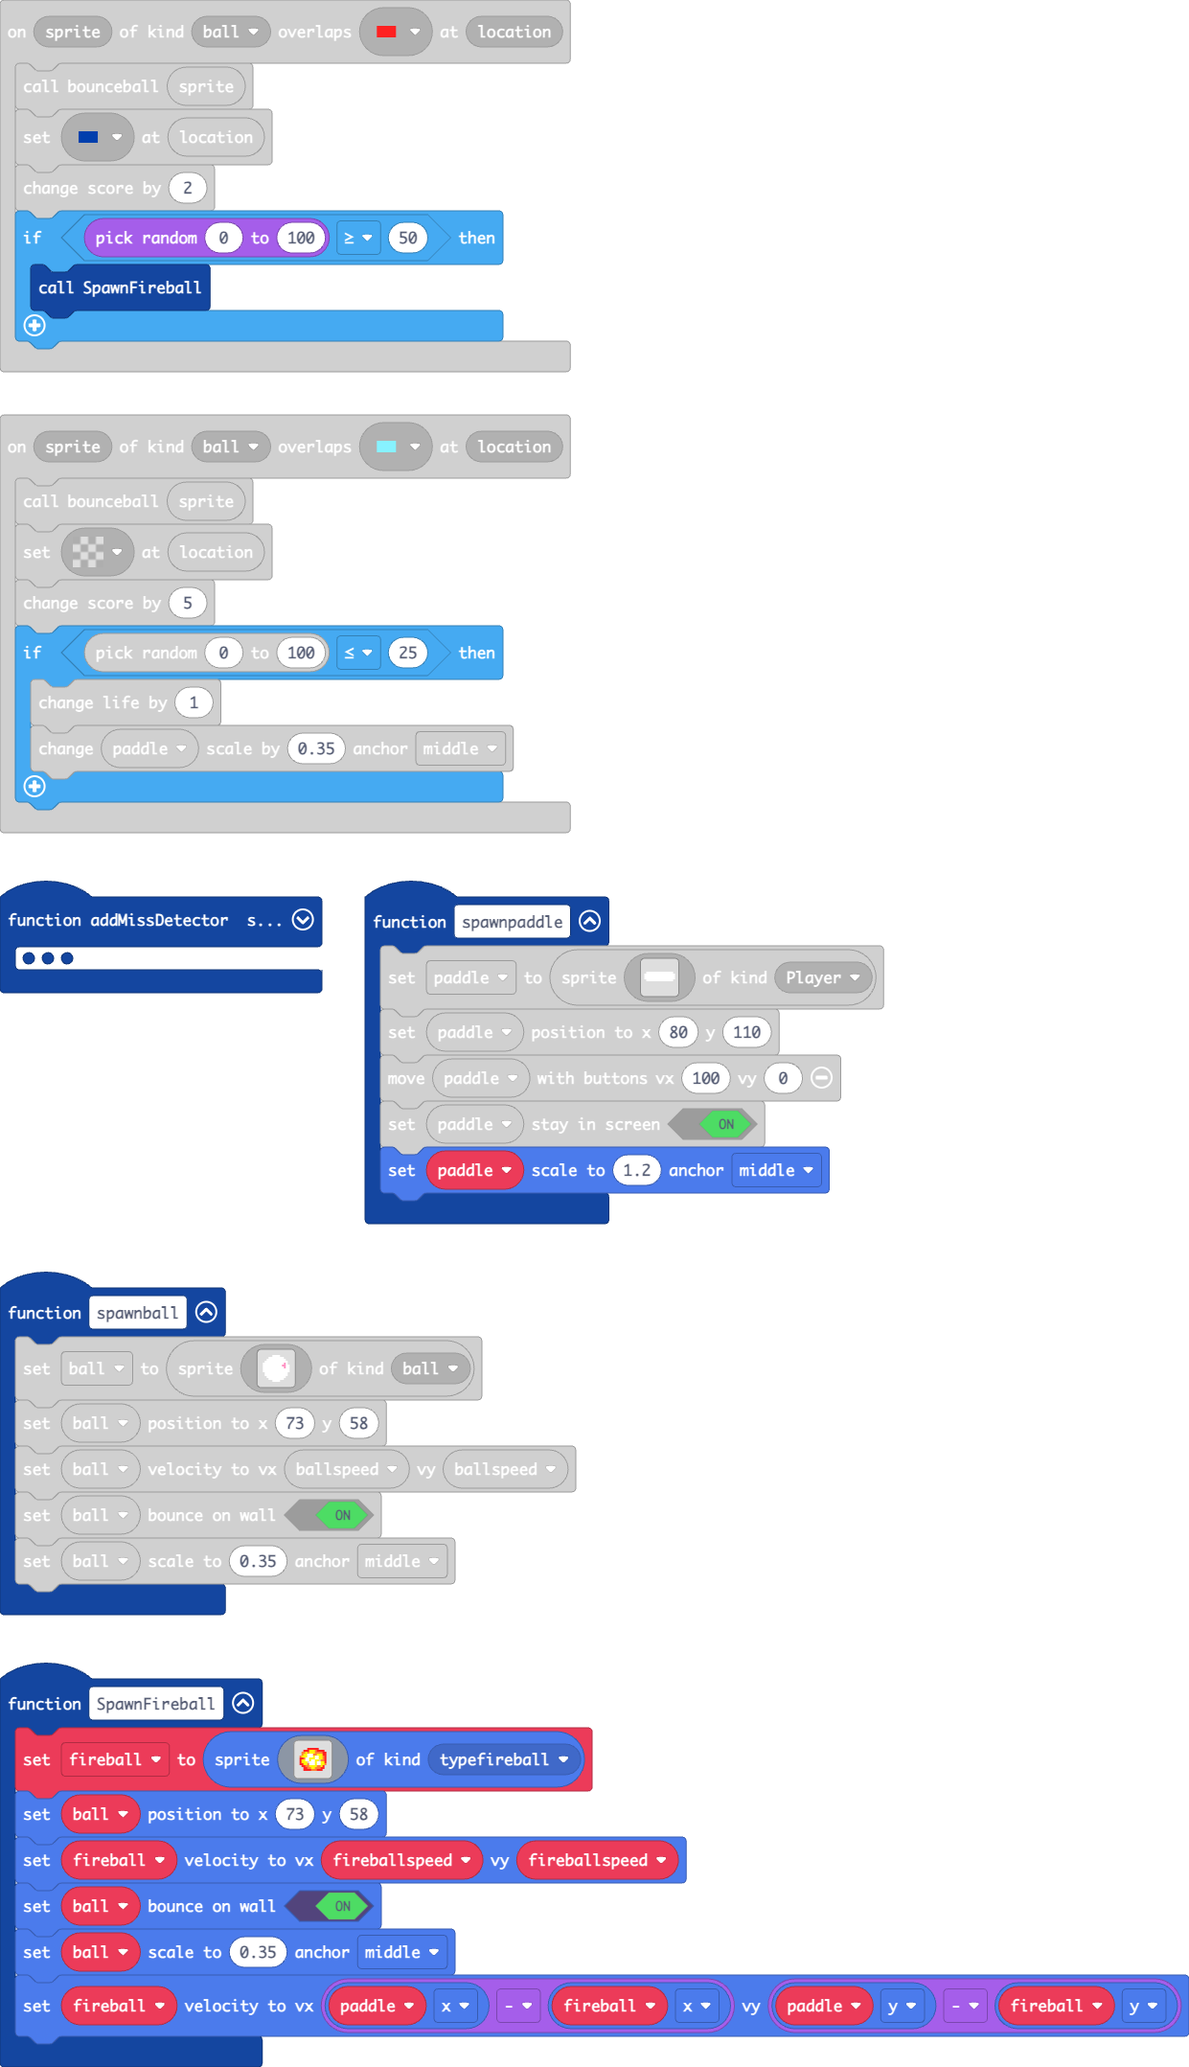
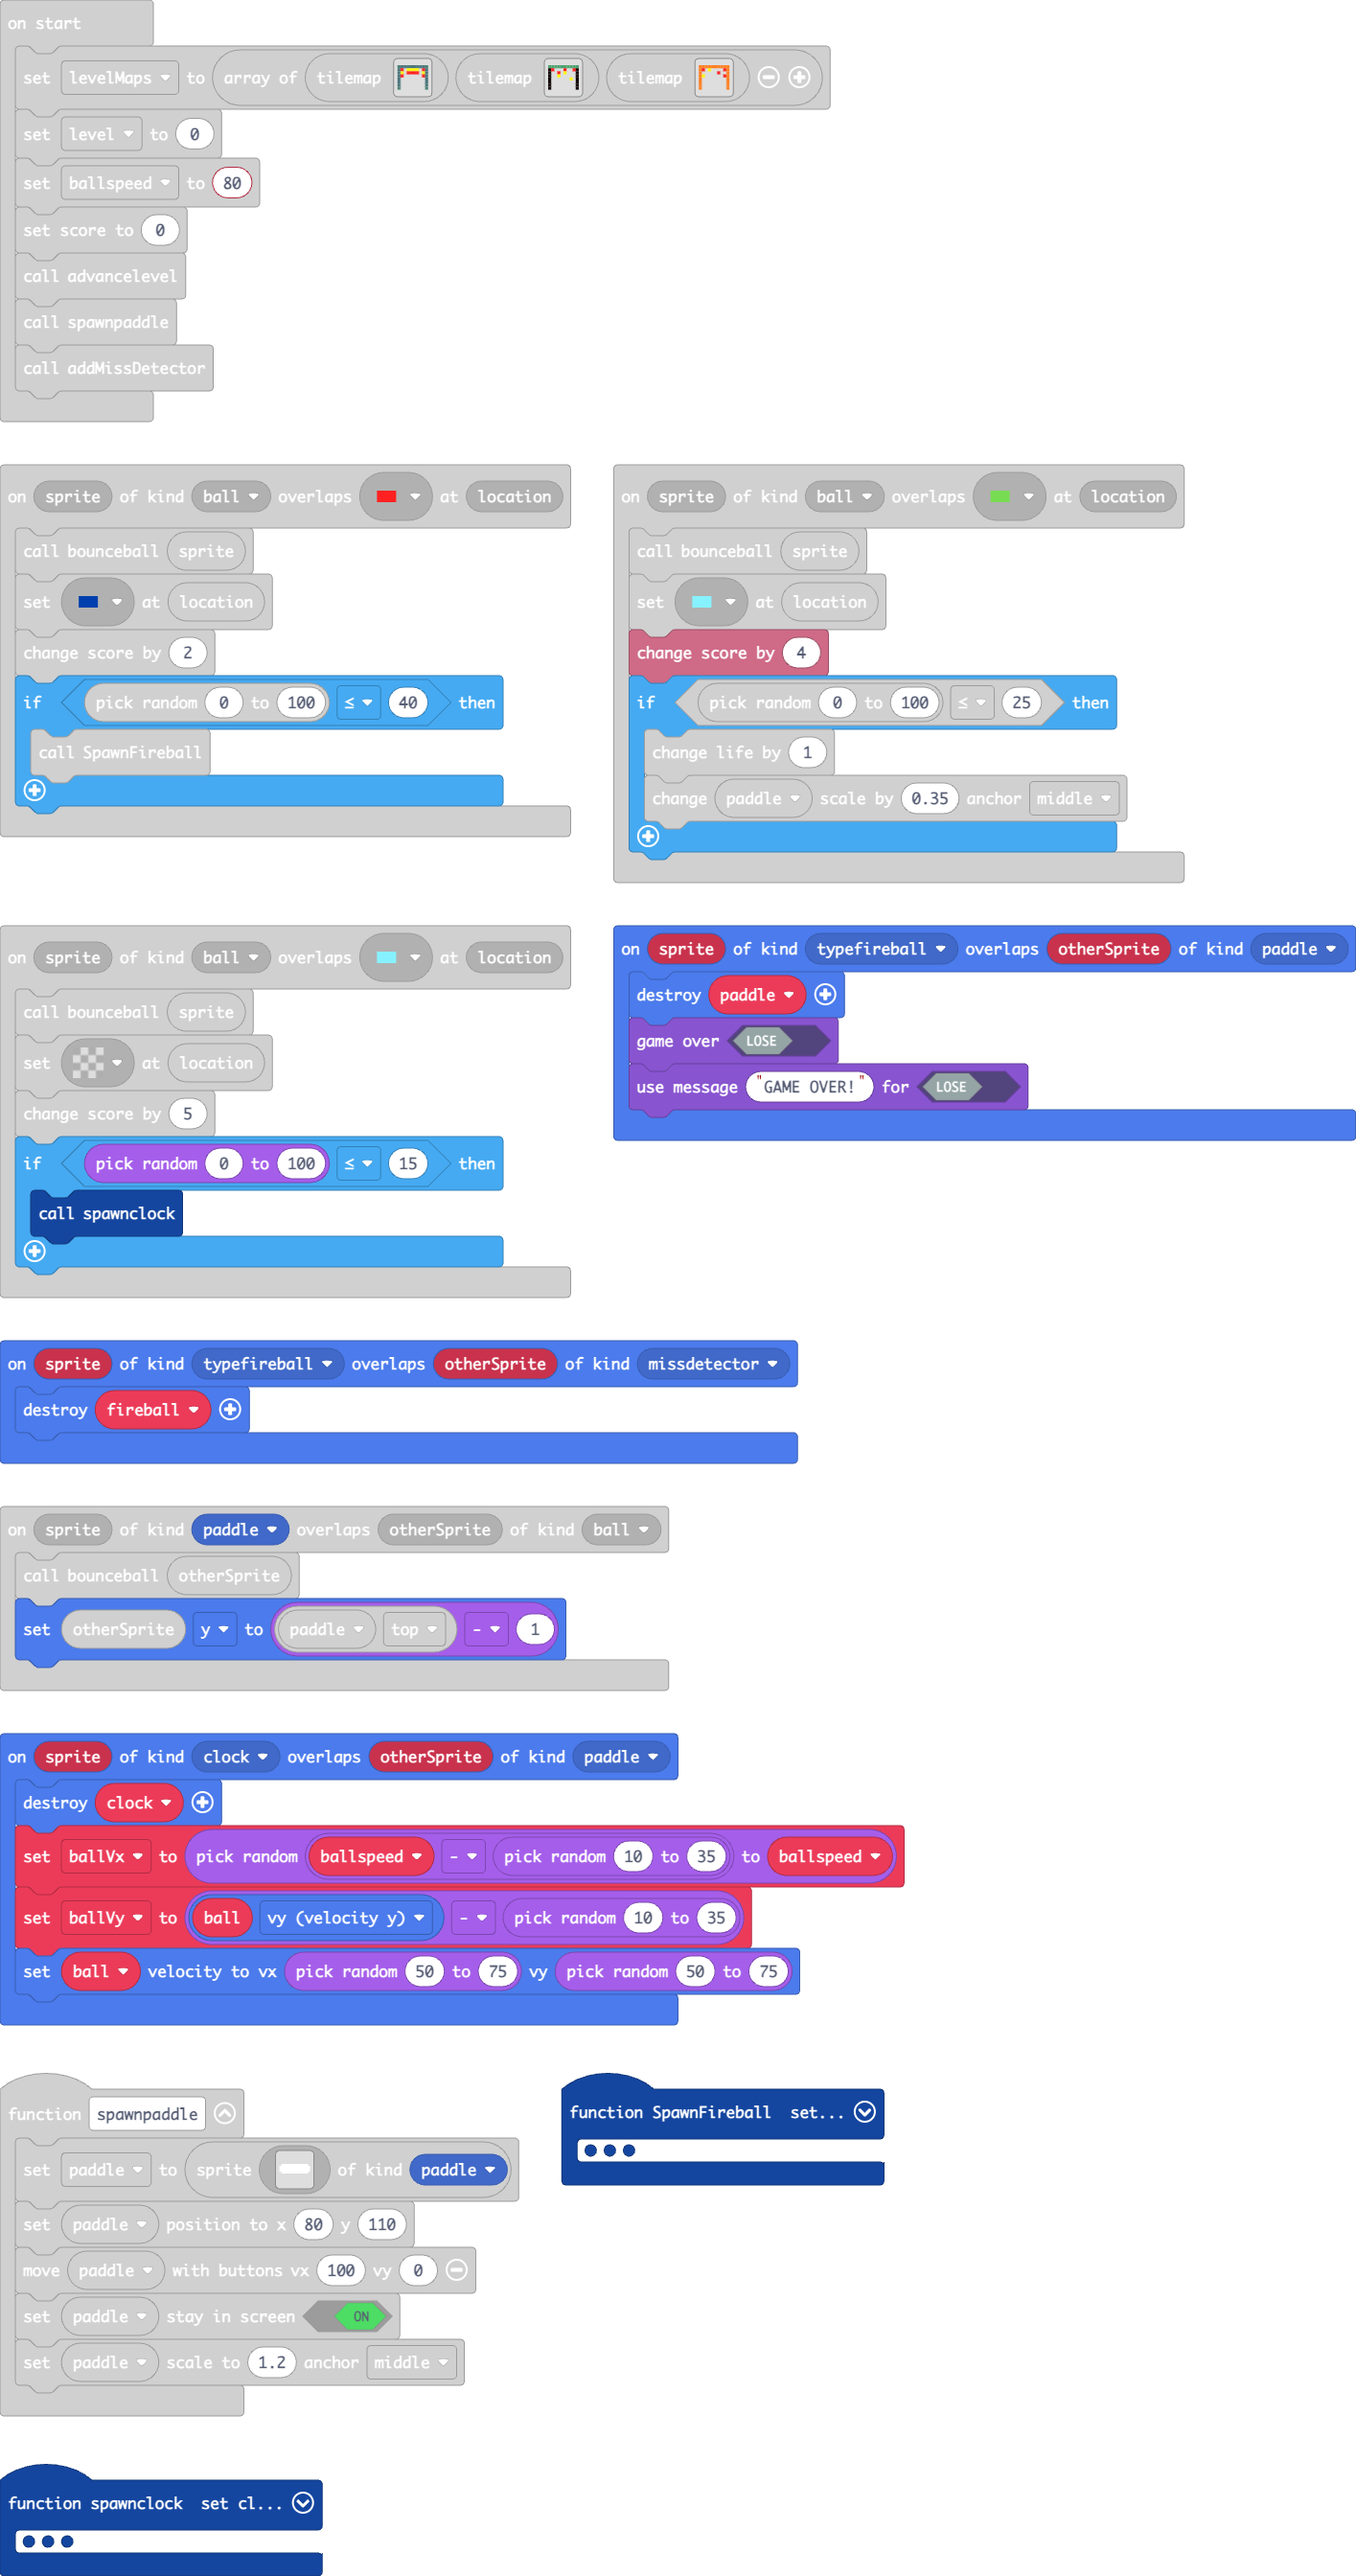
Update main.blocks, main.ts

diff --git a/main.ts b/main.ts
@@ -2,11 +2,23 @@ namespace SpriteKind {
     export const ball = SpriteKind.create()
     export const missdetector = SpriteKind.create()
     export const typefireball = SpriteKind.create()
+    export const paddle = SpriteKind.create()
+    export const clock = SpriteKind.create()
 }
 scene.onOverlapTile(SpriteKind.ball, assets.tile`myTile`, function (sprite, location) {
     bounceball(sprite)
     tiles.setTileAt(location, assets.tile`myTile5`)
     info.changeScoreBy(4)
+    if (randint(0, 100) <= 25) {
+        info.changeLifeBy(1)
+        paddle.changeScale(0.35, ScaleAnchor.Middle)
+    }
+})
+sprites.onOverlap(SpriteKind.clock, SpriteKind.paddle, function (sprite, otherSprite) {
+    sprites.destroy(clock)
+    ballVx = randint(ballspeed - randint(10, 35), ballspeed)
+    ballVy = ball.vy - randint(10, 35)
+    ball.setVelocity(randint(50, 75), randint(50, 75))
 })
 function addMissDetector () {
     MD = sprites.create(img`
@@ -18,11 +30,38 @@ function addMissDetector () {
 controller.B.onEvent(ControllerButtonEvent.Pressed, function () {
     advancelevel()
 })
+function spawnclock () {
+    let clockspeed = 0
+    clock = sprites.create(img`
+        . . . . . . . . . . . . . . . . 
+        . . 5 f f f f f f f f f 5 . . . 
+        . 5 f f 1 1 1 f 1 1 1 f f 5 . . 
+        5 f f 1 1 1 1 f 1 1 1 1 f f 5 . 
+        f f 1 f 1 1 1 1 1 1 1 f 1 f f . 
+        f 1 1 1 f 1 1 1 1 1 f 1 1 1 f . 
+        f 1 1 1 1 1 1 f 1 1 1 1 1 1 f . 
+        f 1 1 1 1 1 1 f 1 1 1 1 1 1 f . 
+        f f f 1 f f f f 1 1 1 1 f f f . 
+        f 1 1 1 1 1 1 1 1 1 1 1 1 1 f . 
+        f 1 1 1 1 1 1 1 1 1 1 1 1 1 f . 
+        f 1 1 1 f 1 1 1 1 1 f 1 1 1 f . 
+        f f 1 f 1 1 1 1 1 1 1 f 1 f f . 
+        5 f f 1 1 1 1 f 1 1 1 1 f f 5 . 
+        . 5 f f 1 1 1 f 1 1 1 f f 5 . . 
+        . . 5 f f f f f f f f f 5 . . . 
+        `, SpriteKind.clock)
+    clock.setPosition(73, 58)
+    clock.setVelocity(clockspeed, clockspeed)
+    clock.setStayInScreen(true)
+    clock.setBounceOnWall(true)
+    clock.setScale(0.85, ScaleAnchor.Middle)
+    clock.setVelocity(paddle.x - clock.x, paddle.y - clock.y)
+}
 scene.onOverlapTile(SpriteKind.ball, assets.tile`myTile3`, function (sprite, location) {
     bounceball(sprite)
     tiles.setTileAt(location, assets.tile`myTile1`)
     info.changeScoreBy(2)
-    if (randint(0, 100) >= 50) {
+    if (randint(0, 100) <= 40) {
         SpawnFireball()
     }
 })
@@ -35,6 +74,11 @@ scene.onOverlapTile(SpriteKind.ball, assets.tile`myTile1`, function (sprite, loc
     bounceball(sprite)
     tiles.setTileAt(location, assets.tile`myTile`)
     info.changeScoreBy(3)
+})
+sprites.onOverlap(SpriteKind.typefireball, SpriteKind.paddle, function (sprite, otherSprite) {
+    sprites.destroy(paddle)
+    game.gameOver(false)
+    game.setGameOverMessage(false, "GAME OVER!")
 })
 function bounceball (ball: Sprite) {
     ballVx = randint(ballspeed / 3, ballspeed)
@@ -50,13 +94,16 @@ function advancelevel () {
     game.splash("Level" + level)
     spawnball()
 }
+sprites.onOverlap(SpriteKind.paddle, SpriteKind.ball, function (sprite, otherSprite) {
+    bounceball(otherSprite)
+    otherSprite.y = paddle.top - 1
+})
 scene.onOverlapTile(SpriteKind.ball, assets.tile`myTile5`, function (sprite, location) {
     bounceball(sprite)
     tiles.setTileAt(location, assets.tile`transparency16`)
     info.changeScoreBy(5)
-    if (randint(0, 100) <= 25) {
-        info.changeLifeBy(1)
-        paddle.changeScale(0.35, ScaleAnchor.Middle)
+    if (randint(0, 100) <= 15) {
+        spawnclock()
     }
 })
 sprites.onOverlap(SpriteKind.ball, SpriteKind.missdetector, function (sprite, otherSprite) {
@@ -90,6 +137,9 @@ function spawnball () {
     ball.setBounceOnWall(true)
     ball.setScale(0.35, ScaleAnchor.Middle)
 }
+sprites.onOverlap(SpriteKind.typefireball, SpriteKind.missdetector, function (sprite, otherSprite) {
+    sprites.destroy(fireball)
+})
 function SpawnFireball () {
     let fireballspeed = 0
     fireball = sprites.create(img`
@@ -110,10 +160,11 @@ function SpawnFireball () {
         . . . . . . . . . . . . . . . . 
         . . . . . . . . . . . . . . . . 
         `, SpriteKind.typefireball)
-    ball.setPosition(73, 58)
+    fireball.setPosition(73, 58)
     fireball.setVelocity(fireballspeed, fireballspeed)
-    ball.setBounceOnWall(true)
-    ball.setScale(0.35, ScaleAnchor.Middle)
+    fireball.setStayInScreen(true)
+    fireball.setBounceOnWall(true)
+    fireball.setScale(0.8, ScaleAnchor.Middle)
     fireball.setVelocity(paddle.x - fireball.x, paddle.y - fireball.y)
 }
 function spawnpaddle () {
@@ -134,28 +185,25 @@ function spawnpaddle () {
         . . . . . . . . . . . . . . . . 
         . . . . . . . . . . . . . . . . 
         . . . . . . . . . . . . . . . . 
-        `, SpriteKind.Player)
+        `, SpriteKind.paddle)
     paddle.setPosition(80, 110)
     controller.moveSprite(paddle, 100, 0)
     paddle.setStayInScreen(true)
     paddle.setScale(1.2, ScaleAnchor.Middle)
 }
-sprites.onOverlap(SpriteKind.Player, SpriteKind.ball, function (sprite, otherSprite) {
-    bounceball(otherSprite)
-    otherSprite.y = paddle.top + 1
-})
 let fireball: Sprite = null
+let MD: Sprite = null
 let ball: Sprite = null
-let paddle: Sprite = null
 let ballVy = 0
 let ballVx = 0
-let MD: Sprite = null
+let clock: Sprite = null
+let paddle: Sprite = null
 let ballspeed = 0
 let level = 0
 let levelMaps: tiles.TileMapData[] = []
 levelMaps = [tilemap`level2`, tilemap`level23`, tilemap`level0`]
 level = 0
-ballspeed = 100
+ballspeed = 80
 info.setScore(0)
 advancelevel()
 spawnpaddle()
